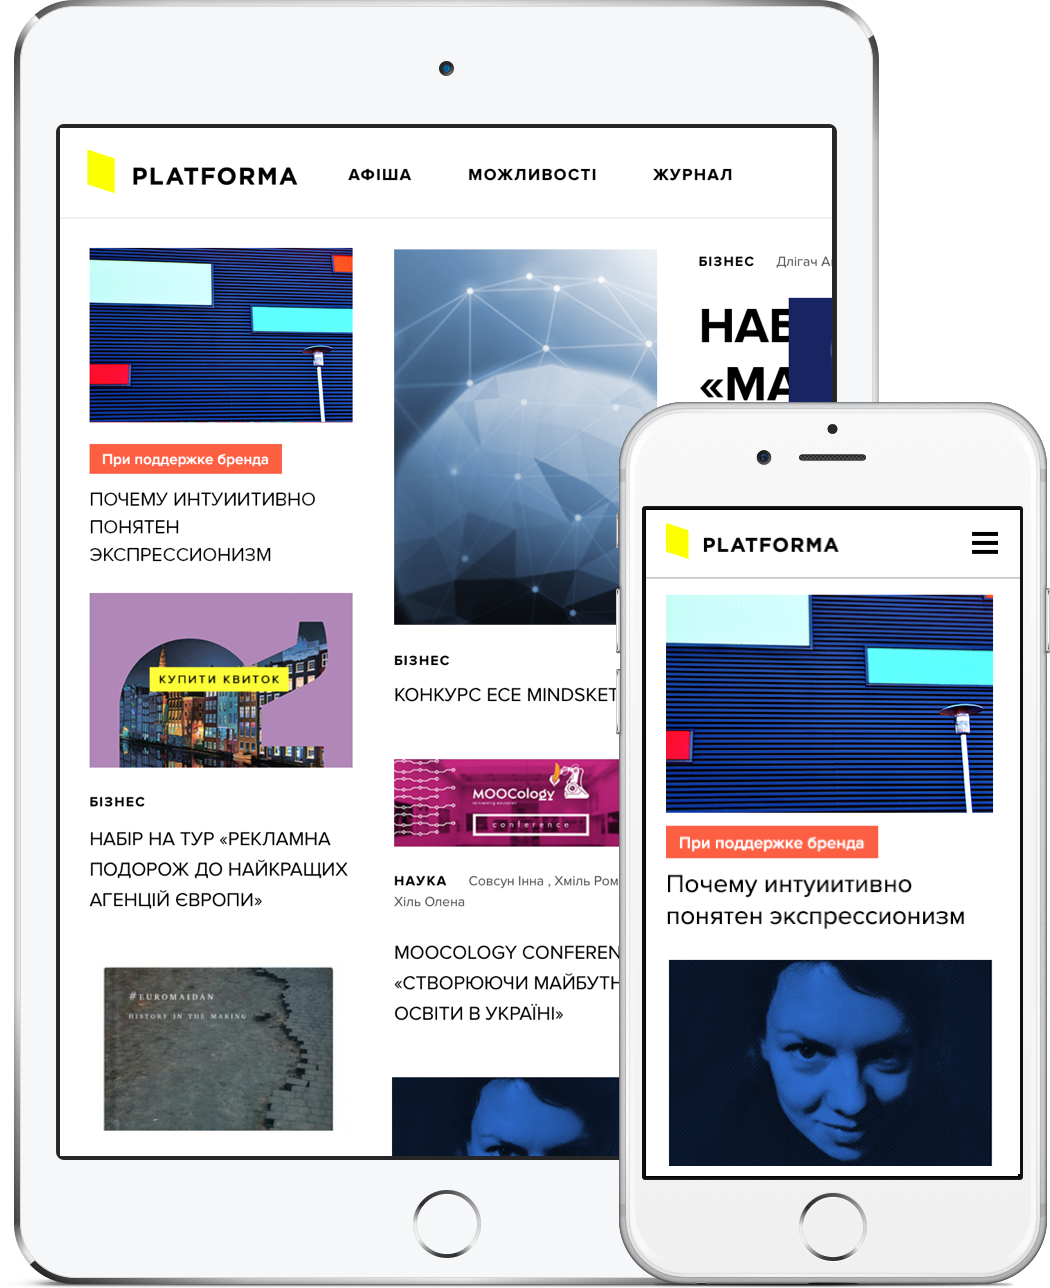
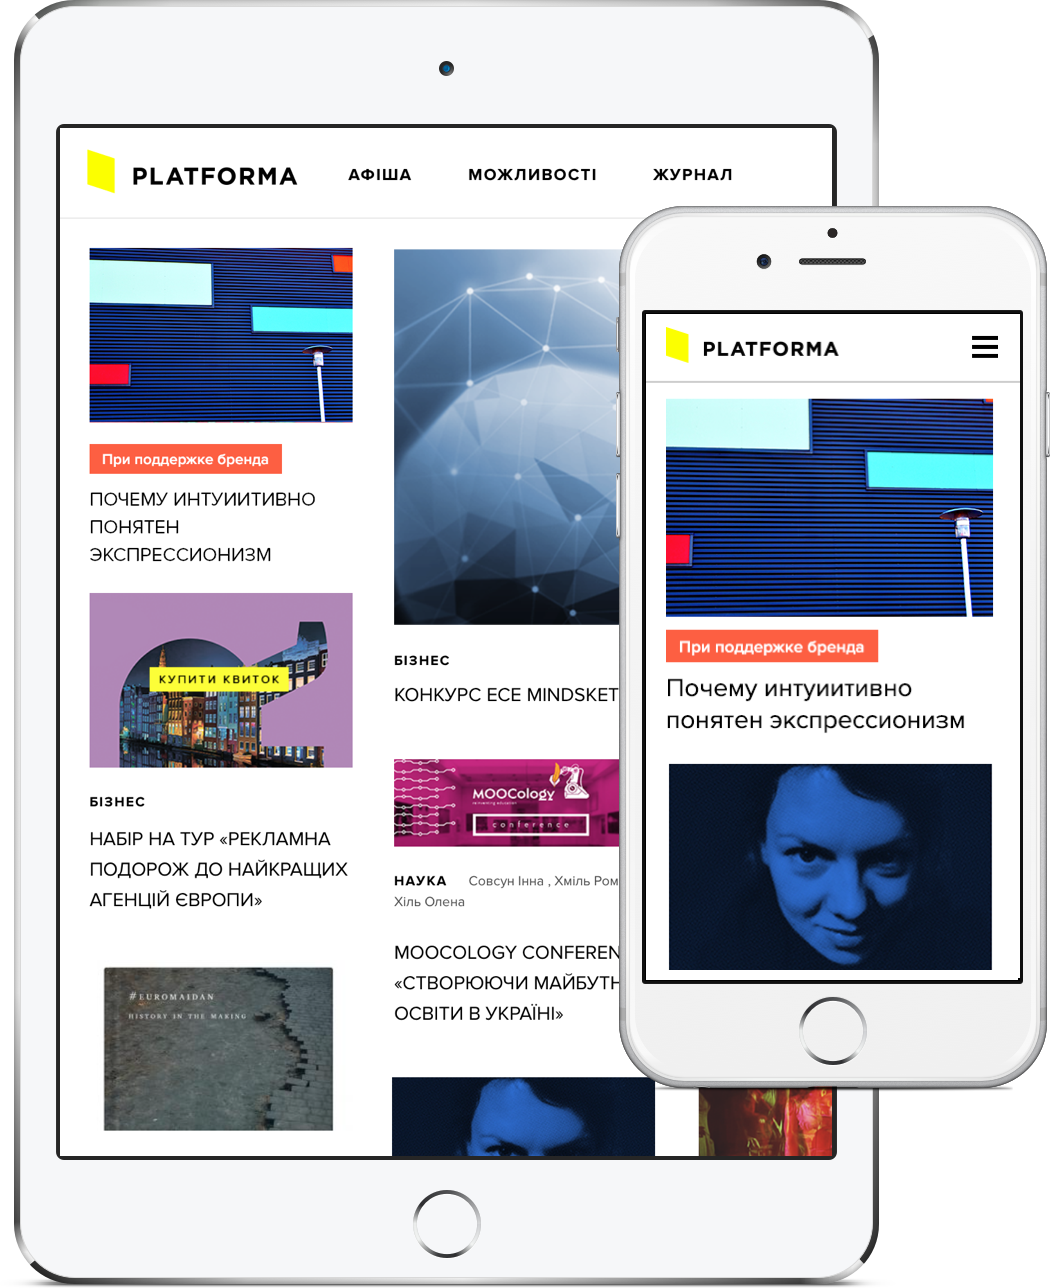
devices full img

Changed region(s): [[0.579, 0.1553, 1.0, 1.0], [0.9752, 0.4658, 1.0, 0.4969]]

diff --git a/_includes/index.html b/_includes/index.html
@@ -15,13 +15,13 @@
     <div class="content">
       <div class="hero">
         <h1>Новая, неправильная реклама</h1>
-        <p>Мы продвигаем брендированный контент </br>через топовые интернет-издания. </br>С любовью к дизайну и пользователю.</p>
+        <p>Мы продвигаем брендированный контент через топовые интернет-издания. С любовью к дизайну и пользователю.</p>
         <div class="btns">
           <button class="launch">Узнать о запуске</button>
           <button class="manifesto">Наш манифест</button>
         </div>
       </div>
-      <div class="devices"></div>
+      <div class="devices"><span></span></div>
     </div>
   </div>
 </section>

diff --git a/css/application.scss b/css/application.scss
@@ -144,7 +144,6 @@ html, body {
     .hero {
       position: absolute;
       top: 20%;
-      /*right: 50%;*/
       width: 400px;
       margin: 0 120px 0 0;
       color: #fff;
@@ -201,11 +200,20 @@ html, body {
     .devices {
       position: absolute;
       left: 50%;
-      width: 492px;
+      width: 525px;
       height: 384px;
-      background: url(/images/devices.png) no-repeat center center;
-      background-size: 492px 384px;
+      overflow: hidden;
+
+
+     	& span {
+     		display: inline-block;
+     		width: 525px;
+     		height: 644px;
+     		background: url(/images/devices.png) no-repeat center center;
+      		background-size: 525px 644px;
+     }
     }
+
   }
 }
 
